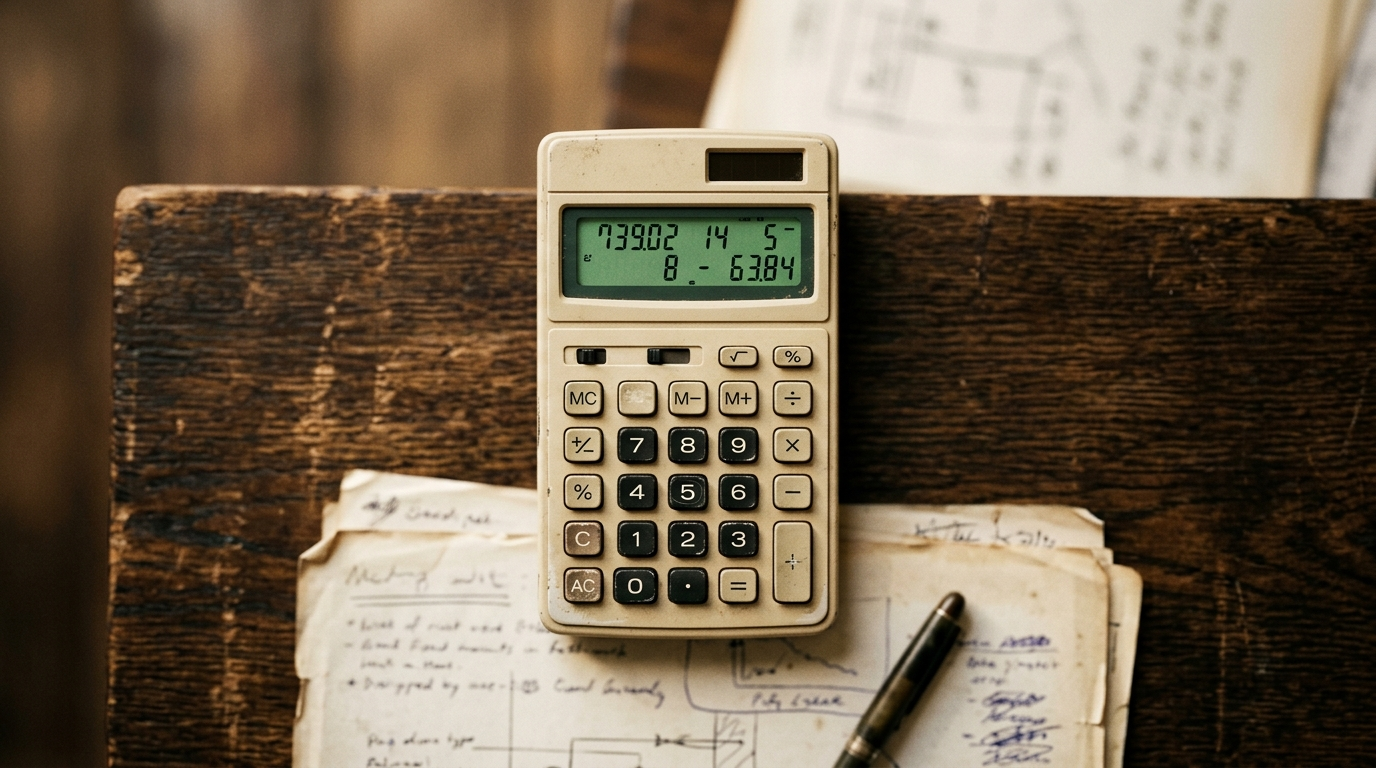
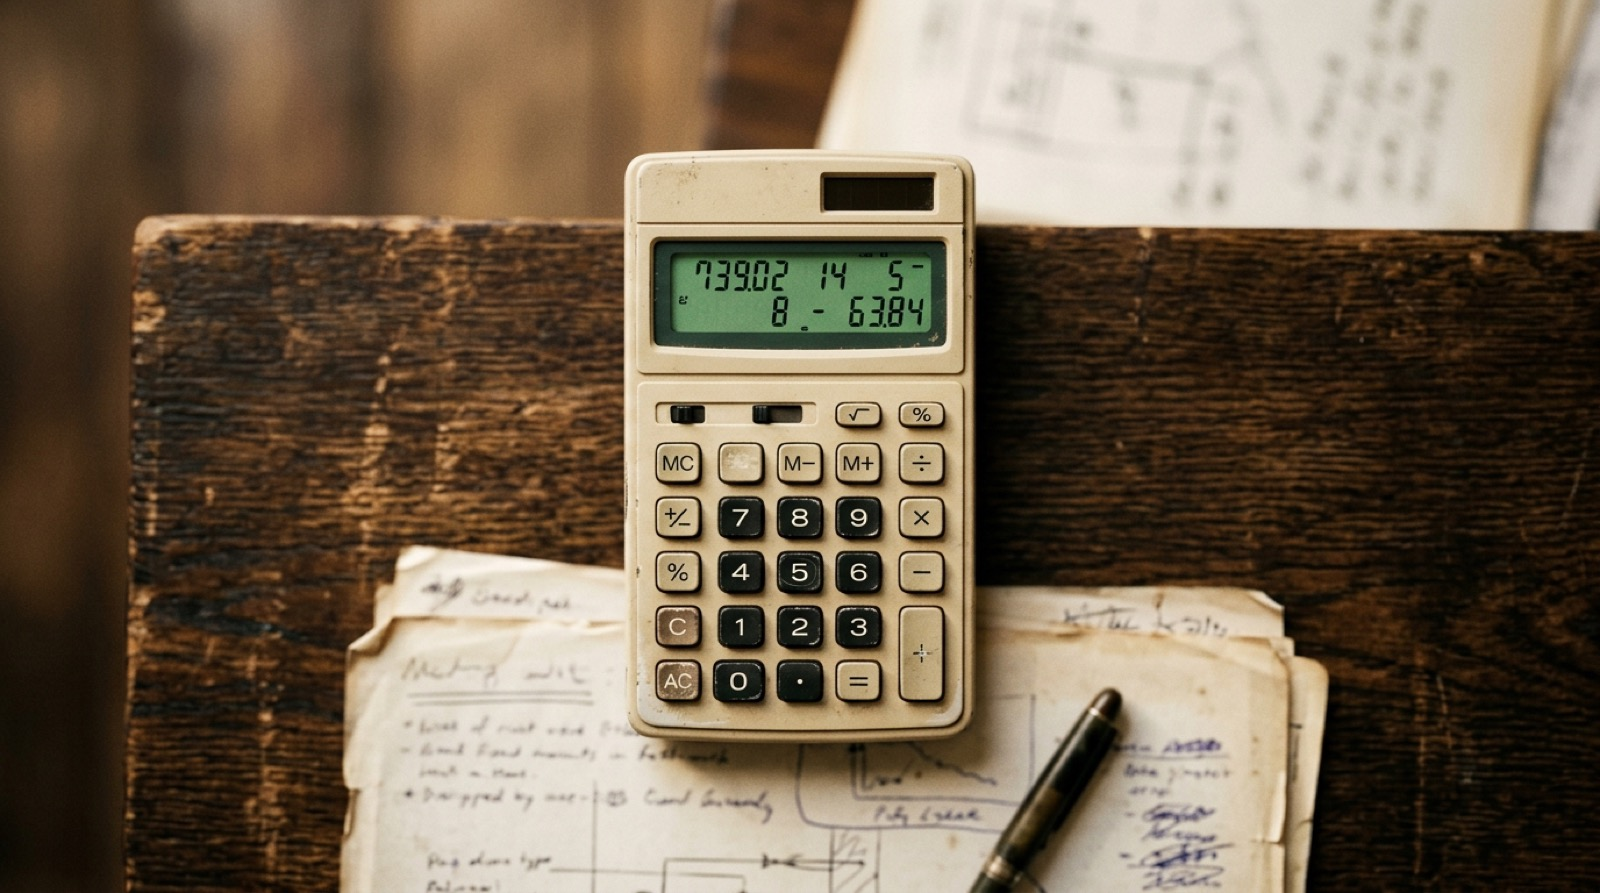
Críticos: legal pages + Vercel analytics + image opt
- /aviso-legal: página LSSI-CE completa (titular, naturaleza orientativa,
  exclusión responsabilidad, propiedad intelectual, ley aplicable)
- /privacidad: RGPD/LOPD-GDD completo (datos newsletter Supabase, analytics
  agregado, derechos del interesado, AEPD)
- Vercel Analytics + Speed Insights integrados en layout
- banner-coins.jpg: 684 KB → 236 KB (-65%, sips resize 1600px)
- manifesto-calculator.jpg: 749 KB → 278 KB (-63%)
- sitemap: añade /aviso-legal y /privacidad

diff --git a/src/app/privacidad/page.tsx b/src/app/privacidad/page.tsx
@@ -1,0 +1,144 @@
+import type { Metadata } from "next";
+import Link from "next/link";
+import { Breadcrumbs } from "@/components/Breadcrumbs";
+import { LastUpdated } from "@/components/LastUpdated";
+
+export const metadata: Metadata = {
+  title: "Política de privacidad · Cuotia",
+  description: "Cómo trata Cuotia los datos personales: newsletter, analytics, cookies, derechos del usuario conforme al RGPD y la LOPD-GDD.",
+  alternates: { canonical: "/privacidad" },
+  robots: { index: true, follow: false },
+};
+
+export default function Page() {
+  return (
+    <div className="mx-auto max-w-3xl px-4 py-10">
+      <Breadcrumbs items={[{ label: "Privacidad" }]} />
+
+      <header className="mb-6">
+        <h1 className="text-3xl font-bold text-neutral-900 sm:text-4xl">Política de privacidad</h1>
+        <LastUpdated date="2026-05-20" className="mt-3" />
+      </header>
+
+      <article className="prose prose-neutral max-w-3xl space-y-5">
+        <h2 className="text-xl font-bold text-neutral-900">Resumen rápido</h2>
+        <div className="not-prose rounded-lg border border-[#FECACA] bg-[#FEF2F2] p-5 my-4">
+          <ul className="text-sm text-neutral-900 list-disc list-inside space-y-1">
+            <li><strong>Las calculadoras NO envían tus números a ningún servidor.</strong> Todo el cálculo ocurre en tu navegador.</li>
+            <li>Solo guardamos tu email si <strong>tú</strong> te suscribes a la newsletter (opt-in voluntario).</li>
+            <li>Usamos analytics agregado sin cookies persistentes (Vercel Analytics).</li>
+            <li>No vendemos ni cedemos datos a terceros.</li>
+          </ul>
+        </div>
+
+        <h2 className="text-xl font-bold text-neutral-900">1. Responsable del tratamiento</h2>
+        <p>
+          Cuotia, contacto en{" "}
+          <a href="mailto:hola@cuotia.es" className="text-[#B91C1C] underline">hola@cuotia.es</a>.
+          Más información en el{" "}
+          <Link href="/aviso-legal" className="text-[#B91C1C] underline">aviso legal</Link>.
+        </p>
+
+        <h2 className="text-xl font-bold text-neutral-900">2. Datos que tratamos y para qué</h2>
+
+        <h3 className="text-lg font-semibold text-neutral-900">a) Calculadoras (no se almacenan)</h3>
+        <p>
+          Los valores que introduces en las calculadoras (ingresos, gastos, base
+          de cotización, etc.) <strong>se procesan exclusivamente en tu navegador</strong>.
+          No se envían a ningún servidor de Cuotia ni de terceros. No los almacenamos.
+        </p>
+        <p>
+          Algunas calculadoras (generador de facturas, IRPF por CCAA) guardan datos
+          en <code>localStorage</code> de tu navegador para que no tengas que
+          reintroducirlos. Estos datos <strong>nunca salen de tu dispositivo</strong> y
+          puedes borrarlos limpiando el almacenamiento del navegador.
+        </p>
+
+        <h3 className="text-lg font-semibold text-neutral-900">b) Newsletter (opt-in voluntario)</h3>
+        <p>
+          Si decides suscribirte, guardamos tu email para enviarte avisos sobre cambios
+          fiscales (nuevos tramos, modelos, plazos). Base legal: consentimiento expreso
+          (art. 6.1.a RGPD).
+        </p>
+        <ul>
+          <li><strong>Datos</strong>: email, fecha de alta, fuente (qué página te llevó a suscribirte).</li>
+          <li><strong>Proveedor</strong>: Supabase (servidor en la UE).</li>
+          <li><strong>Conservación</strong>: hasta que te des de baja.</li>
+          <li><strong>Cómo darte de baja</strong>: en cualquier email o escribiendo a hola@cuotia.es.</li>
+        </ul>
+
+        <h3 className="text-lg font-semibold text-neutral-900">c) Analytics agregado</h3>
+        <p>
+          Usamos <strong>Vercel Analytics</strong> y <strong>Speed Insights</strong> para
+          conocer páginas vistas, dispositivos y rendimiento. Estos datos son agregados
+          y anónimos (no se identifica a usuarios individuales). No usan cookies
+          persistentes y son compatibles con el RGPD.
+        </p>
+
+        <h3 className="text-lg font-semibold text-neutral-900">d) Publicidad (Google AdSense, futuro)</h3>
+        <p>
+          Cuando activemos publicidad, Google AdSense podrá usar cookies para mostrar
+          anuncios contextuales. En ese momento aparecerá un banner de consentimiento
+          y se actualizará esta política para detallar los proveedores y finalidades.
+        </p>
+
+        <h2 className="text-xl font-bold text-neutral-900">3. Cookies</h2>
+        <p>
+          Actualmente Cuotia <strong>no instala cookies</strong> propias ni de terceros
+          que requieran consentimiento. Solo usa <code>localStorage</code> técnico para
+          recordar tus preferencias de calculadora (no es cookie).
+        </p>
+        <p>
+          Si activamos publicidad o herramientas de tracking adicionales, se mostrará
+          un banner de consentimiento conforme a la LSSI-CE.
+        </p>
+
+        <h2 className="text-xl font-bold text-neutral-900">4. Destinatarios de los datos</h2>
+        <p>
+          No cedemos tus datos a terceros, salvo a:
+        </p>
+        <ul>
+          <li><strong>Vercel</strong> (proveedor de hosting y analytics, EE.UU. con SCC del RGPD)</li>
+          <li><strong>Supabase</strong> (proveedor del newsletter, UE)</li>
+        </ul>
+
+        <h2 className="text-xl font-bold text-neutral-900">5. Transferencias internacionales</h2>
+        <p>
+          Vercel está en EE.UU. Para garantizar protección equivalente al RGPD,
+          opera bajo las Cláusulas Contractuales Tipo (SCC) de la Comisión Europea.
+        </p>
+
+        <h2 className="text-xl font-bold text-neutral-900">6. Tus derechos</h2>
+        <p>
+          Como interesado, tienes derecho a:
+        </p>
+        <ul>
+          <li><strong>Acceso</strong>: saber qué datos tuyos tenemos.</li>
+          <li><strong>Rectificación</strong>: corregir datos inexactos.</li>
+          <li><strong>Supresión</strong> ("derecho al olvido"): borrar tu email del newsletter.</li>
+          <li><strong>Oposición</strong>: oponerte al tratamiento.</li>
+          <li><strong>Portabilidad</strong>: recibir tus datos en formato estructurado.</li>
+          <li><strong>Limitación</strong>: restringir el uso temporalmente.</li>
+        </ul>
+        <p>
+          Para ejercerlos, escribe a{" "}
+          <a href="mailto:hola@cuotia.es" className="text-[#B91C1C] underline">hola@cuotia.es</a>{" "}
+          indicando tu solicitud. Respondemos en un máximo de 30 días.
+        </p>
+        <p>
+          Si consideras que vulneramos tus derechos, puedes presentar una reclamación
+          ante la{" "}
+          <a href="https://www.aepd.es" target="_blank" rel="noopener noreferrer" className="text-[#B91C1C] underline">
+            Agencia Española de Protección de Datos (AEPD)
+          </a>.
+        </p>
+
+        <h2 className="text-xl font-bold text-neutral-900">7. Cambios en esta política</h2>
+        <p>
+          Esta política puede actualizarse. La versión vigente está siempre publicada
+          en esta URL con la fecha de última actualización al inicio.
+        </p>
+      </article>
+    </div>
+  );
+}

diff --git a/src/app/aviso-legal/page.tsx b/src/app/aviso-legal/page.tsx
@@ -1,0 +1,113 @@
+import type { Metadata } from "next";
+import Link from "next/link";
+import { Breadcrumbs } from "@/components/Breadcrumbs";
+import { LastUpdated } from "@/components/LastUpdated";
+
+const SITE_URL = process.env.NEXT_PUBLIC_SITE_URL || "https://cuotia.es";
+
+export const metadata: Metadata = {
+  title: "Aviso legal · Cuotia",
+  description: "Aviso legal de Cuotia conforme a la LSSI-CE: titular, condiciones de uso, propiedad intelectual, responsabilidades y legislación aplicable.",
+  alternates: { canonical: "/aviso-legal" },
+  robots: { index: true, follow: false },
+};
+
+export default function Page() {
+  return (
+    <div className="mx-auto max-w-3xl px-4 py-10">
+      <Breadcrumbs items={[{ label: "Aviso legal" }]} />
+
+      <header className="mb-6">
+        <h1 className="text-3xl font-bold text-neutral-900 sm:text-4xl">Aviso legal</h1>
+        <LastUpdated date="2026-05-20" className="mt-3" />
+      </header>
+
+      <article className="prose prose-neutral max-w-3xl space-y-5">
+        <h2 className="text-xl font-bold text-neutral-900">1. Información del titular</h2>
+        <p>
+          En cumplimiento de la Ley 34/2002, de Servicios de la Sociedad de la
+          Información y Comercio Electrónico (LSSI-CE), se informa de los siguientes datos:
+        </p>
+        <ul>
+          <li><strong>Titular del sitio web</strong>: Cuotia (proyecto personal independiente)</li>
+          <li><strong>Sitio web</strong>: <Link href="/" className="text-[#B91C1C] underline">{SITE_URL}</Link></li>
+          <li><strong>Contacto</strong>: <a href="mailto:hola@cuotia.es" className="text-[#B91C1C] underline">hola@cuotia.es</a></li>
+          <li><strong>Actividad</strong>: publicación de calculadoras fiscales gratuitas e información sobre normativa fiscal para autónomos en España. Sin venta de servicios ni asesoría fiscal individualizada.</li>
+        </ul>
+
+        <h2 className="text-xl font-bold text-neutral-900">2. Objeto</h2>
+        <p>
+          Cuotia ofrece herramientas gratuitas de cálculo y contenido informativo
+          sobre tributación de autónomos en España. La utilización del sitio implica
+          la aceptación expresa de este aviso legal.
+        </p>
+
+        <h2 className="text-xl font-bold text-neutral-900">3. Naturaleza orientativa del contenido</h2>
+        <p>
+          <strong>Cuotia no presta servicios de asesoría fiscal, laboral, jurídica ni
+          tributaria.</strong> Todos los cálculos y contenidos publicados tienen carácter
+          meramente <em>informativo y orientativo</em>. Se basan en la interpretación de
+          la normativa vigente publicada en el BOE y en fuentes oficiales (AEAT, TGSS),
+          pero no sustituyen el asesoramiento profesional individualizado.
+        </p>
+        <p>
+          Para la presentación de modelos tributarios, declaraciones o cualquier
+          actuación con efectos legales, el usuario debe consultar con un gestor,
+          asesor fiscal o abogado colegiado, o utilizar directamente los servicios
+          oficiales de la AEAT y la Seguridad Social.
+        </p>
+
+        <h2 className="text-xl font-bold text-neutral-900">4. Exclusión de responsabilidad</h2>
+        <p>
+          El titular del sitio no se hace responsable de:
+        </p>
+        <ul>
+          <li>Errores u omisiones en los cálculos producidos por desactualización normativa, errores de programación o circunstancias particulares del usuario no contempladas.</li>
+          <li>Decisiones tomadas por el usuario basándose en los resultados de las calculadoras.</li>
+          <li>Daños o perjuicios derivados del uso de la información publicada.</li>
+          <li>Indisponibilidad temporal del servicio por mantenimiento, fallos técnicos o causas de fuerza mayor.</li>
+          <li>Contenido de sitios web de terceros enlazados desde Cuotia.</li>
+        </ul>
+
+        <h2 className="text-xl font-bold text-neutral-900">5. Propiedad intelectual</h2>
+        <p>
+          El diseño, los textos originales y el código de Cuotia están protegidos por
+          derechos de propiedad intelectual del titular. Se permite el uso personal y
+          la cita parcial con atribución y enlace a la fuente.
+        </p>
+        <p>
+          Los datos fiscales (tipos, escalas, tramos) provienen de fuentes oficiales
+          de dominio público (BOE, AEAT, TGSS) y no son objeto de protección por
+          derechos de autor.
+        </p>
+
+        <h2 className="text-xl font-bold text-neutral-900">6. Enlaces externos</h2>
+        <p>
+          Cuotia enlaza a sitios web oficiales (BOE, AEAT, TGSS) y a otros recursos
+          de interés. El titular no controla el contenido de los sitios enlazados ni
+          se responsabiliza de su disponibilidad o exactitud.
+        </p>
+
+        <h2 className="text-xl font-bold text-neutral-900">7. Modificaciones</h2>
+        <p>
+          El titular se reserva el derecho a modificar este aviso legal en cualquier
+          momento. Las modificaciones tendrán efecto desde su publicación en el sitio.
+        </p>
+
+        <h2 className="text-xl font-bold text-neutral-900">8. Legislación aplicable y jurisdicción</h2>
+        <p>
+          Este aviso legal se rige por la legislación española. Para cualquier
+          controversia derivada del uso del sitio, las partes se someten a los
+          juzgados y tribunales del domicilio del titular en España, salvo norma
+          imperativa que disponga lo contrario.
+        </p>
+
+        <h2 className="text-xl font-bold text-neutral-900">9. Política de privacidad y cookies</h2>
+        <p>
+          Para información sobre tratamiento de datos y cookies, consulta nuestra{" "}
+          <Link href="/privacidad" className="text-[#B91C1C] underline">política de privacidad</Link>.
+        </p>
+      </article>
+    </div>
+  );
+}

diff --git a/src/app/layout.tsx b/src/app/layout.tsx
@@ -1,5 +1,7 @@
 import type { Metadata } from "next";
 import { Inter, Fraunces } from "next/font/google";
+import { Analytics } from "@vercel/analytics/react";
+import { SpeedInsights } from "@vercel/speed-insights/next";
 import "./globals.css";
 import { Header } from "@/components/Header";
 import { Footer } from "@/components/Footer";
@@ -69,6 +71,8 @@ export default function RootLayout({ children }: Readonly<{ children: React.Reac
         <Header />
         <main className="flex-1">{children}</main>
         <Footer />
+        <Analytics />
+        <SpeedInsights />
       </body>
     </html>
   );

diff --git a/src/app/sitemap.ts b/src/app/sitemap.ts
@@ -23,6 +23,8 @@ const ROUTES: { path: string; priority: number; freq: MetadataRoute.Sitemap[numb
   { path: "/guias/tarifa-plana", priority: 0.85, freq: "monthly" },
   { path: "/generador-facturas", priority: 0.95, freq: "monthly" },
   { path: "/sobre-nosotros", priority: 0.6, freq: "yearly" },
+  { path: "/aviso-legal", priority: 0.3, freq: "yearly" },
+  { path: "/privacidad", priority: 0.3, freq: "yearly" },
   { path: "/blog", priority: 0.8, freq: "weekly" },
 ];
 
